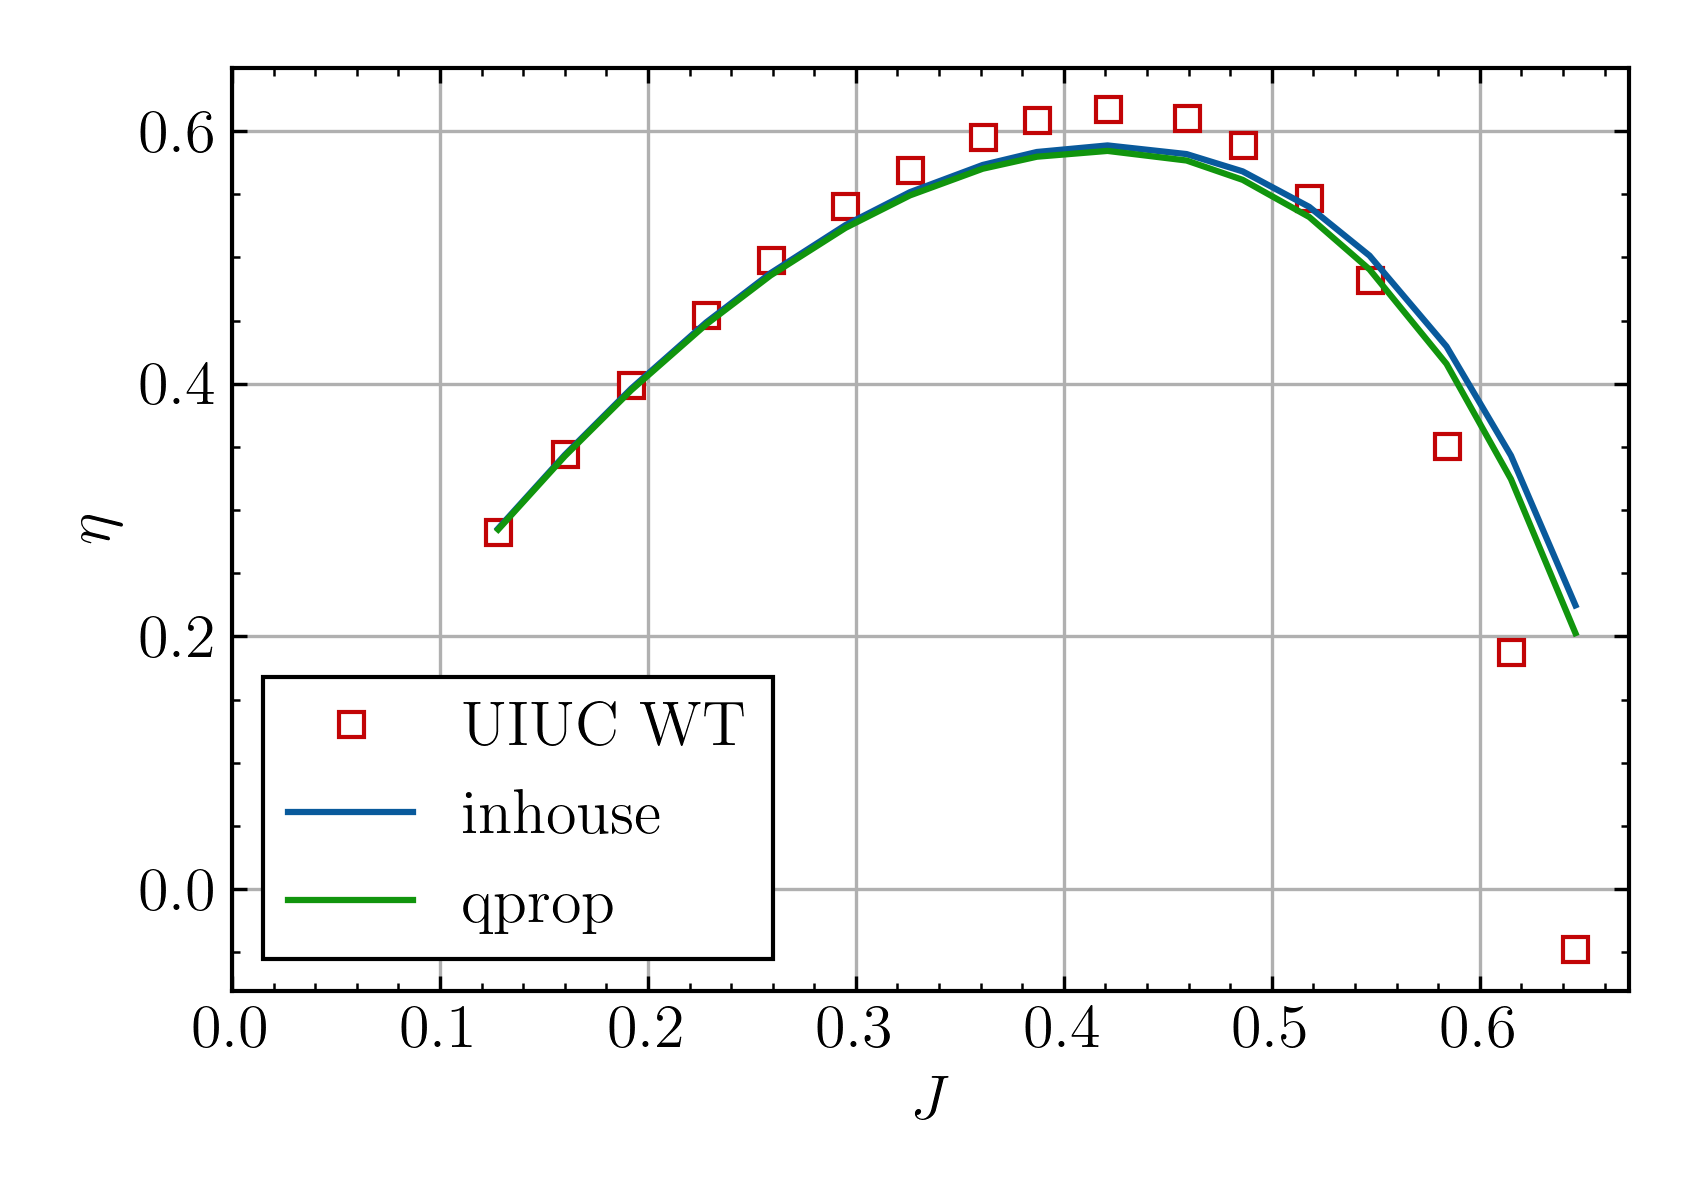
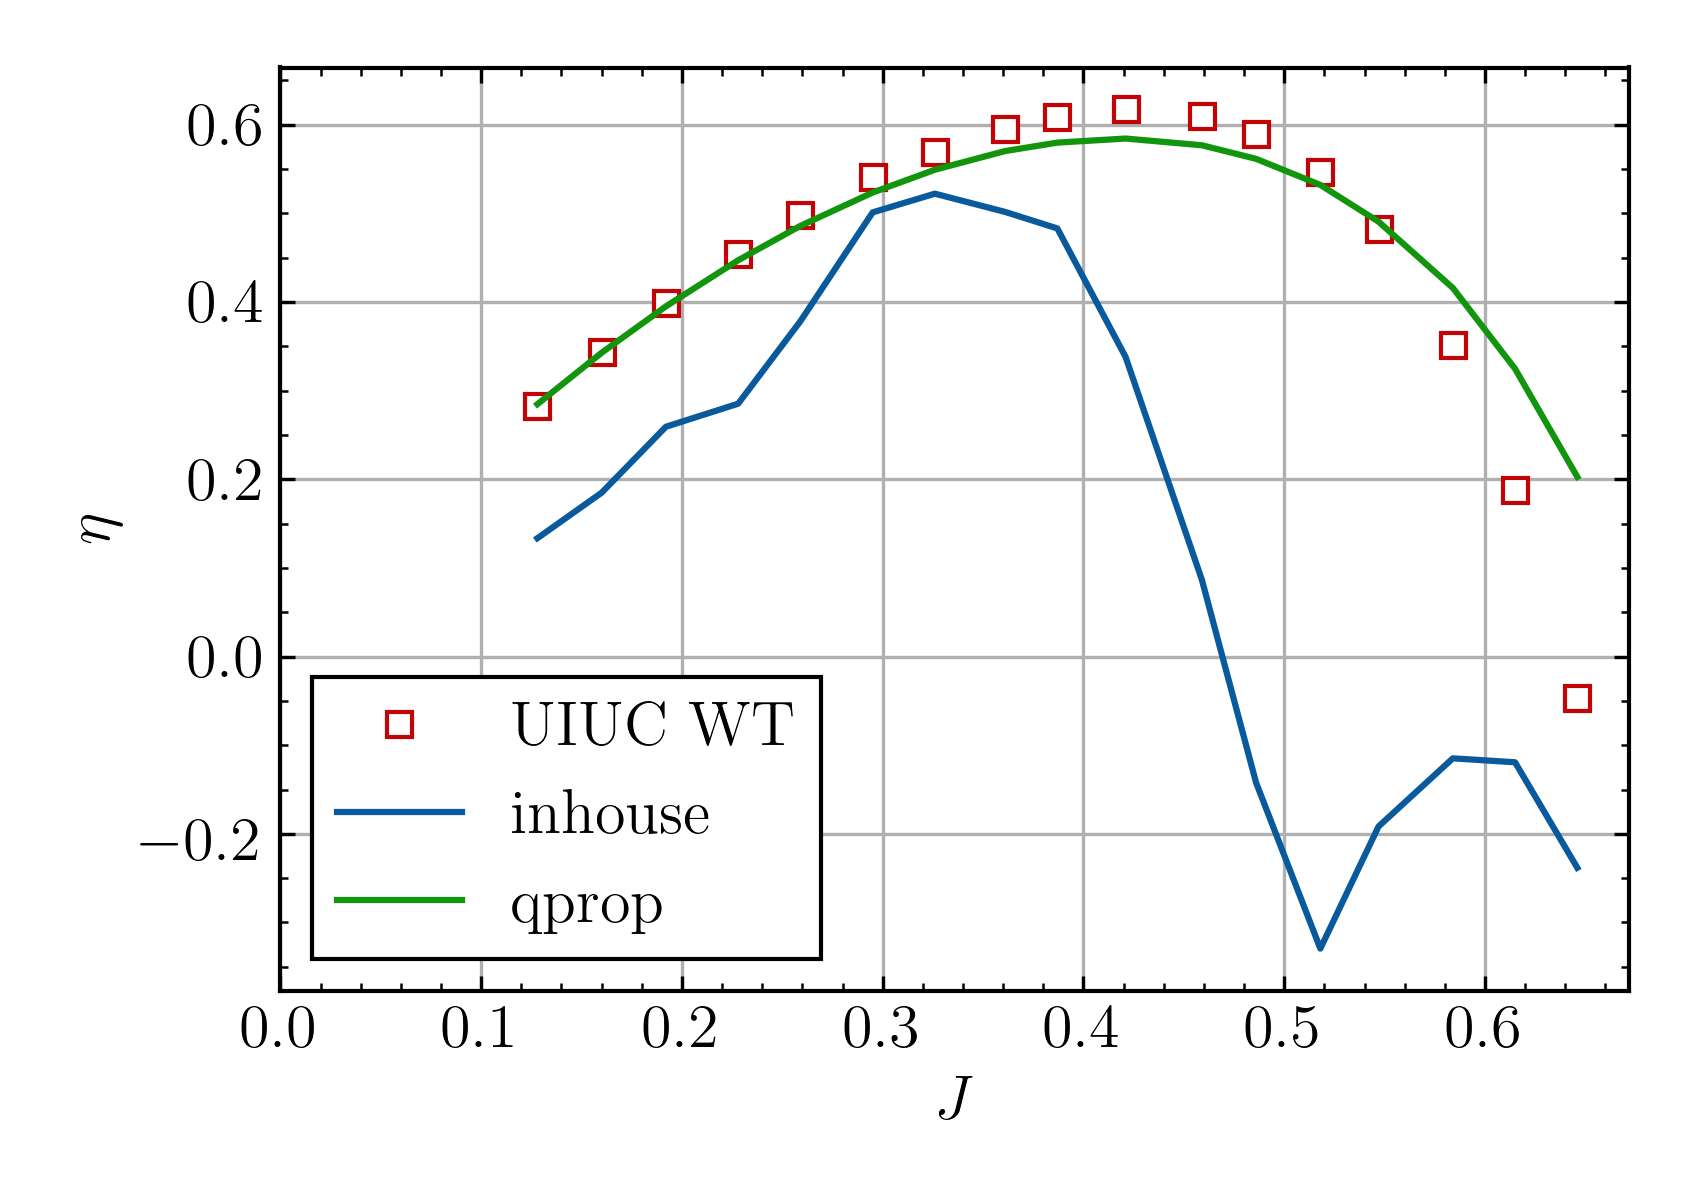
validation ×

diff --git a/ANALYSIS/validation/validation-qprop.py b/ANALYSIS/validation/validation-qprop.py
@@ -39,7 +39,7 @@ for J in uiuc_J:
         f.write('V = {}\n'.format(V))
         f.write('plotsave = False\n')
     # run the calculation
-    subprocess.run(['python3', 'perform_analysis.py', '--airfoil', 'airfoil-qpropsame.txt'])
+    subprocess.run(['python3', 'perform_analysis_refactor.py', '--airfoil', 'airfoil-qpropsame.txt'])
     # load the results and append to the list
     with open('results.txt', 'r') as file:
         for line in file:
